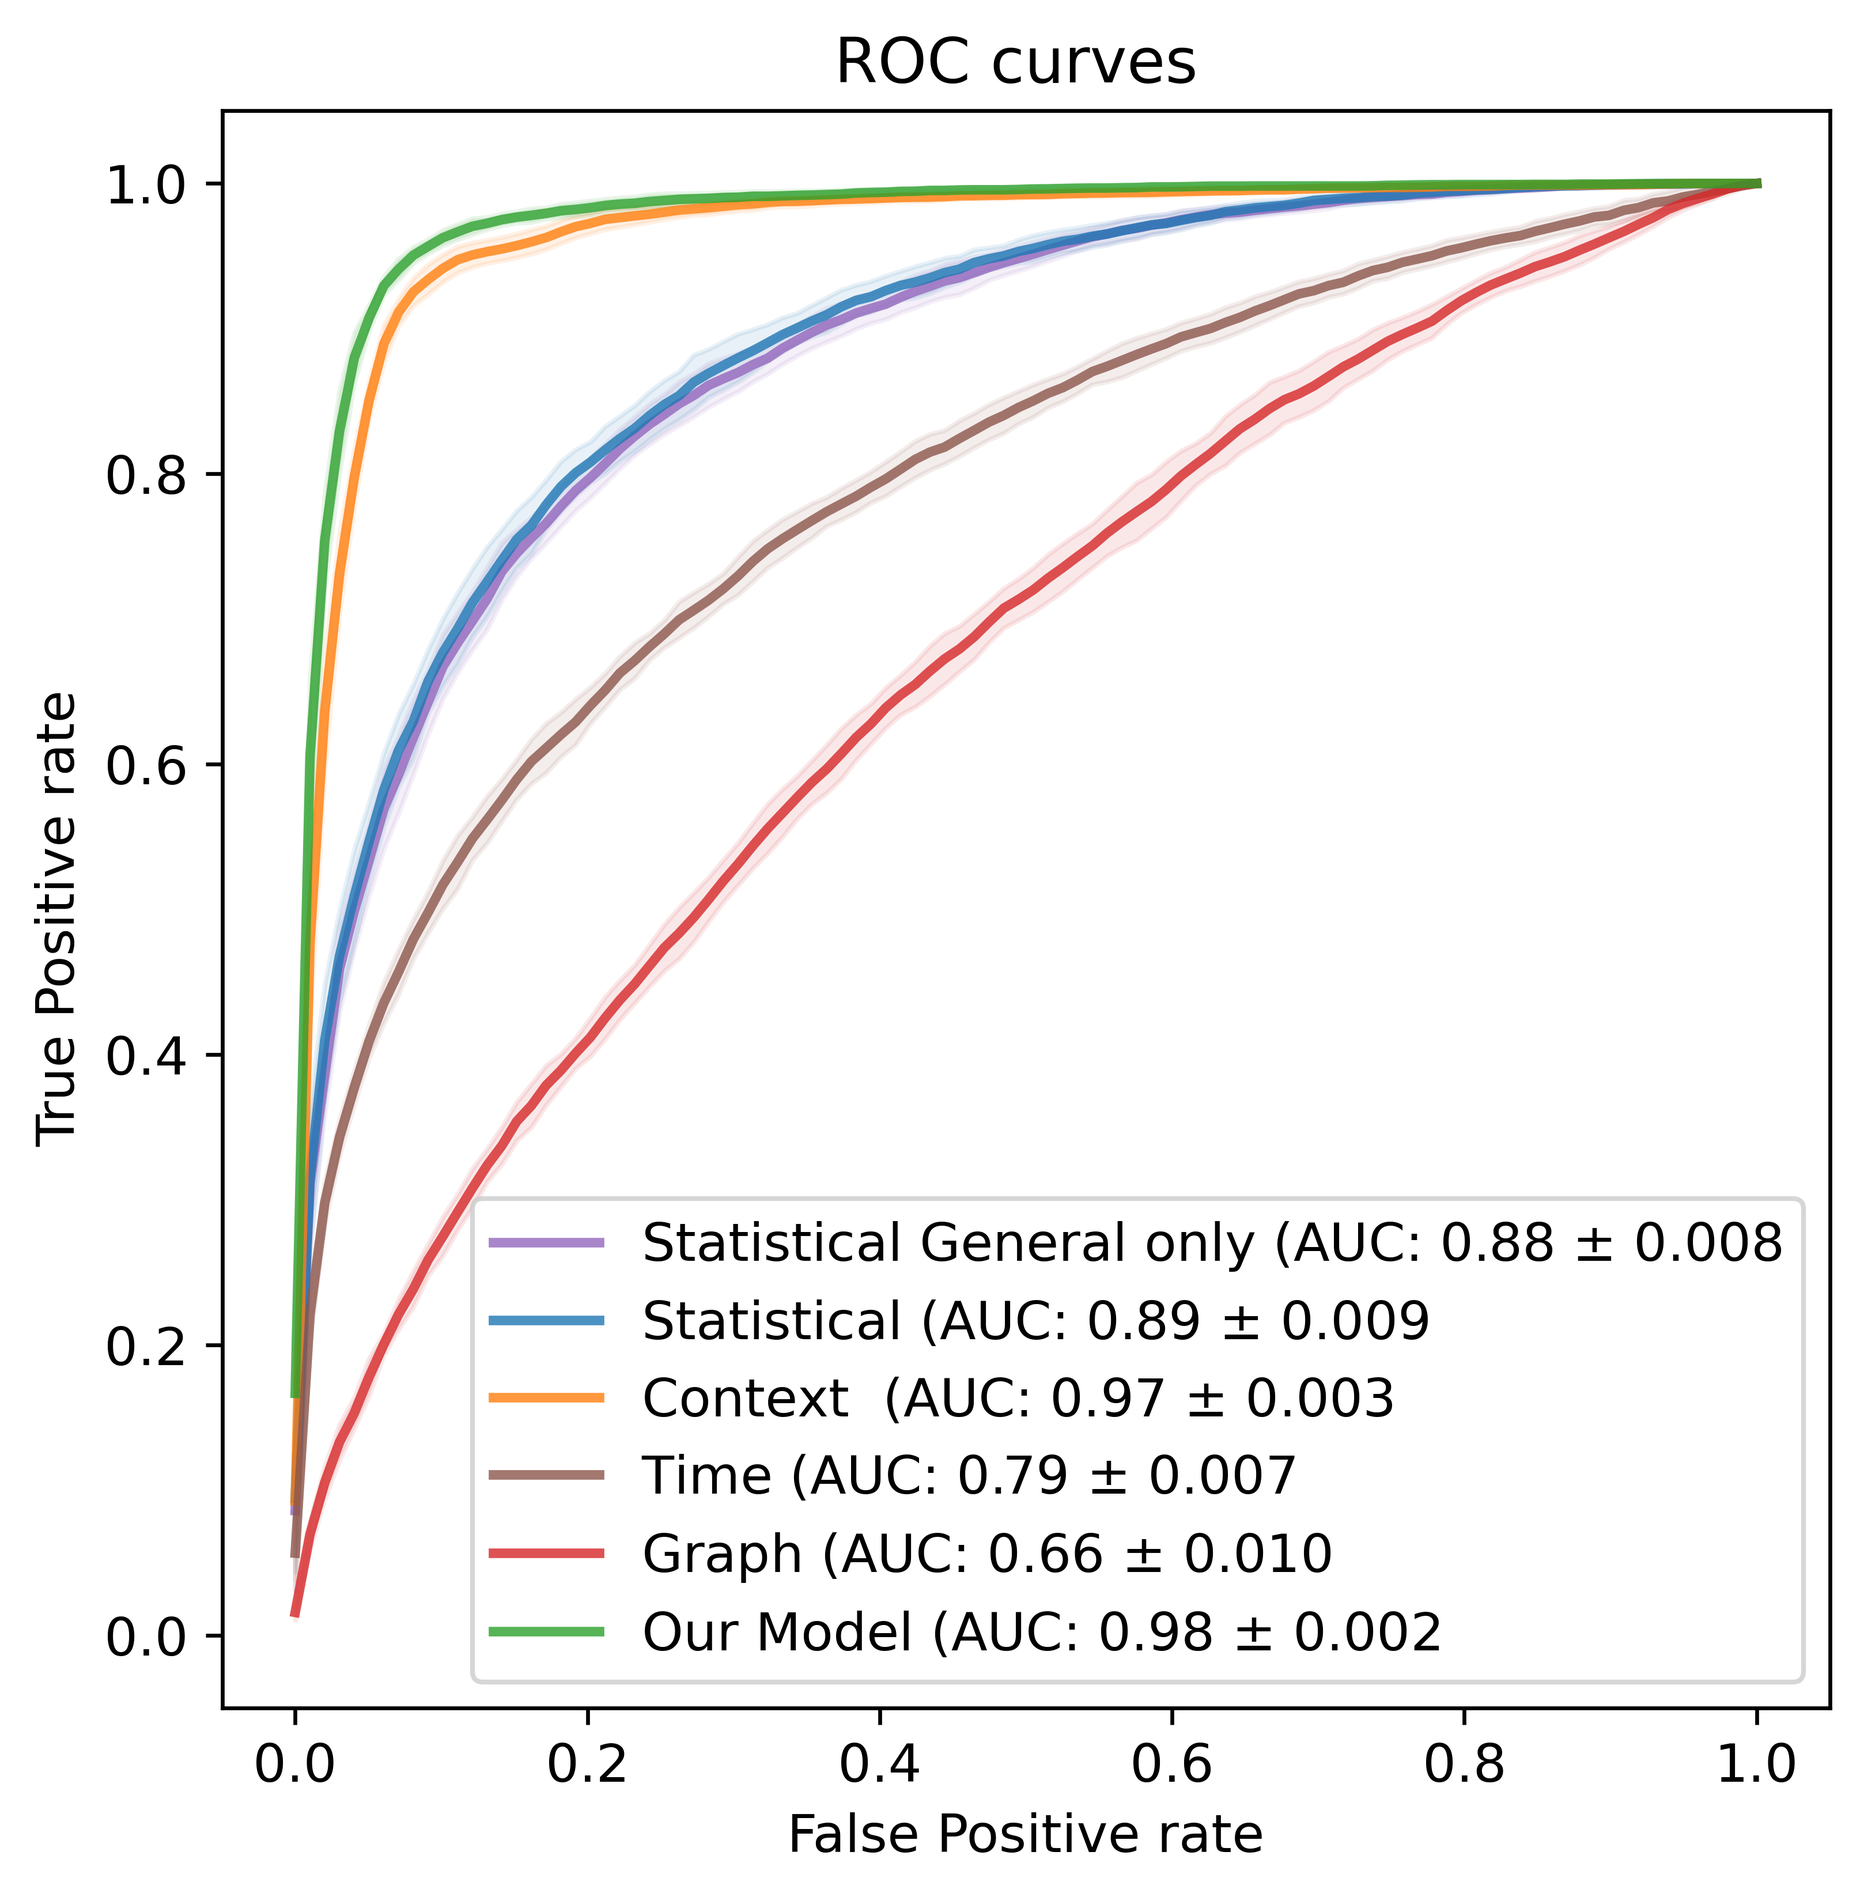
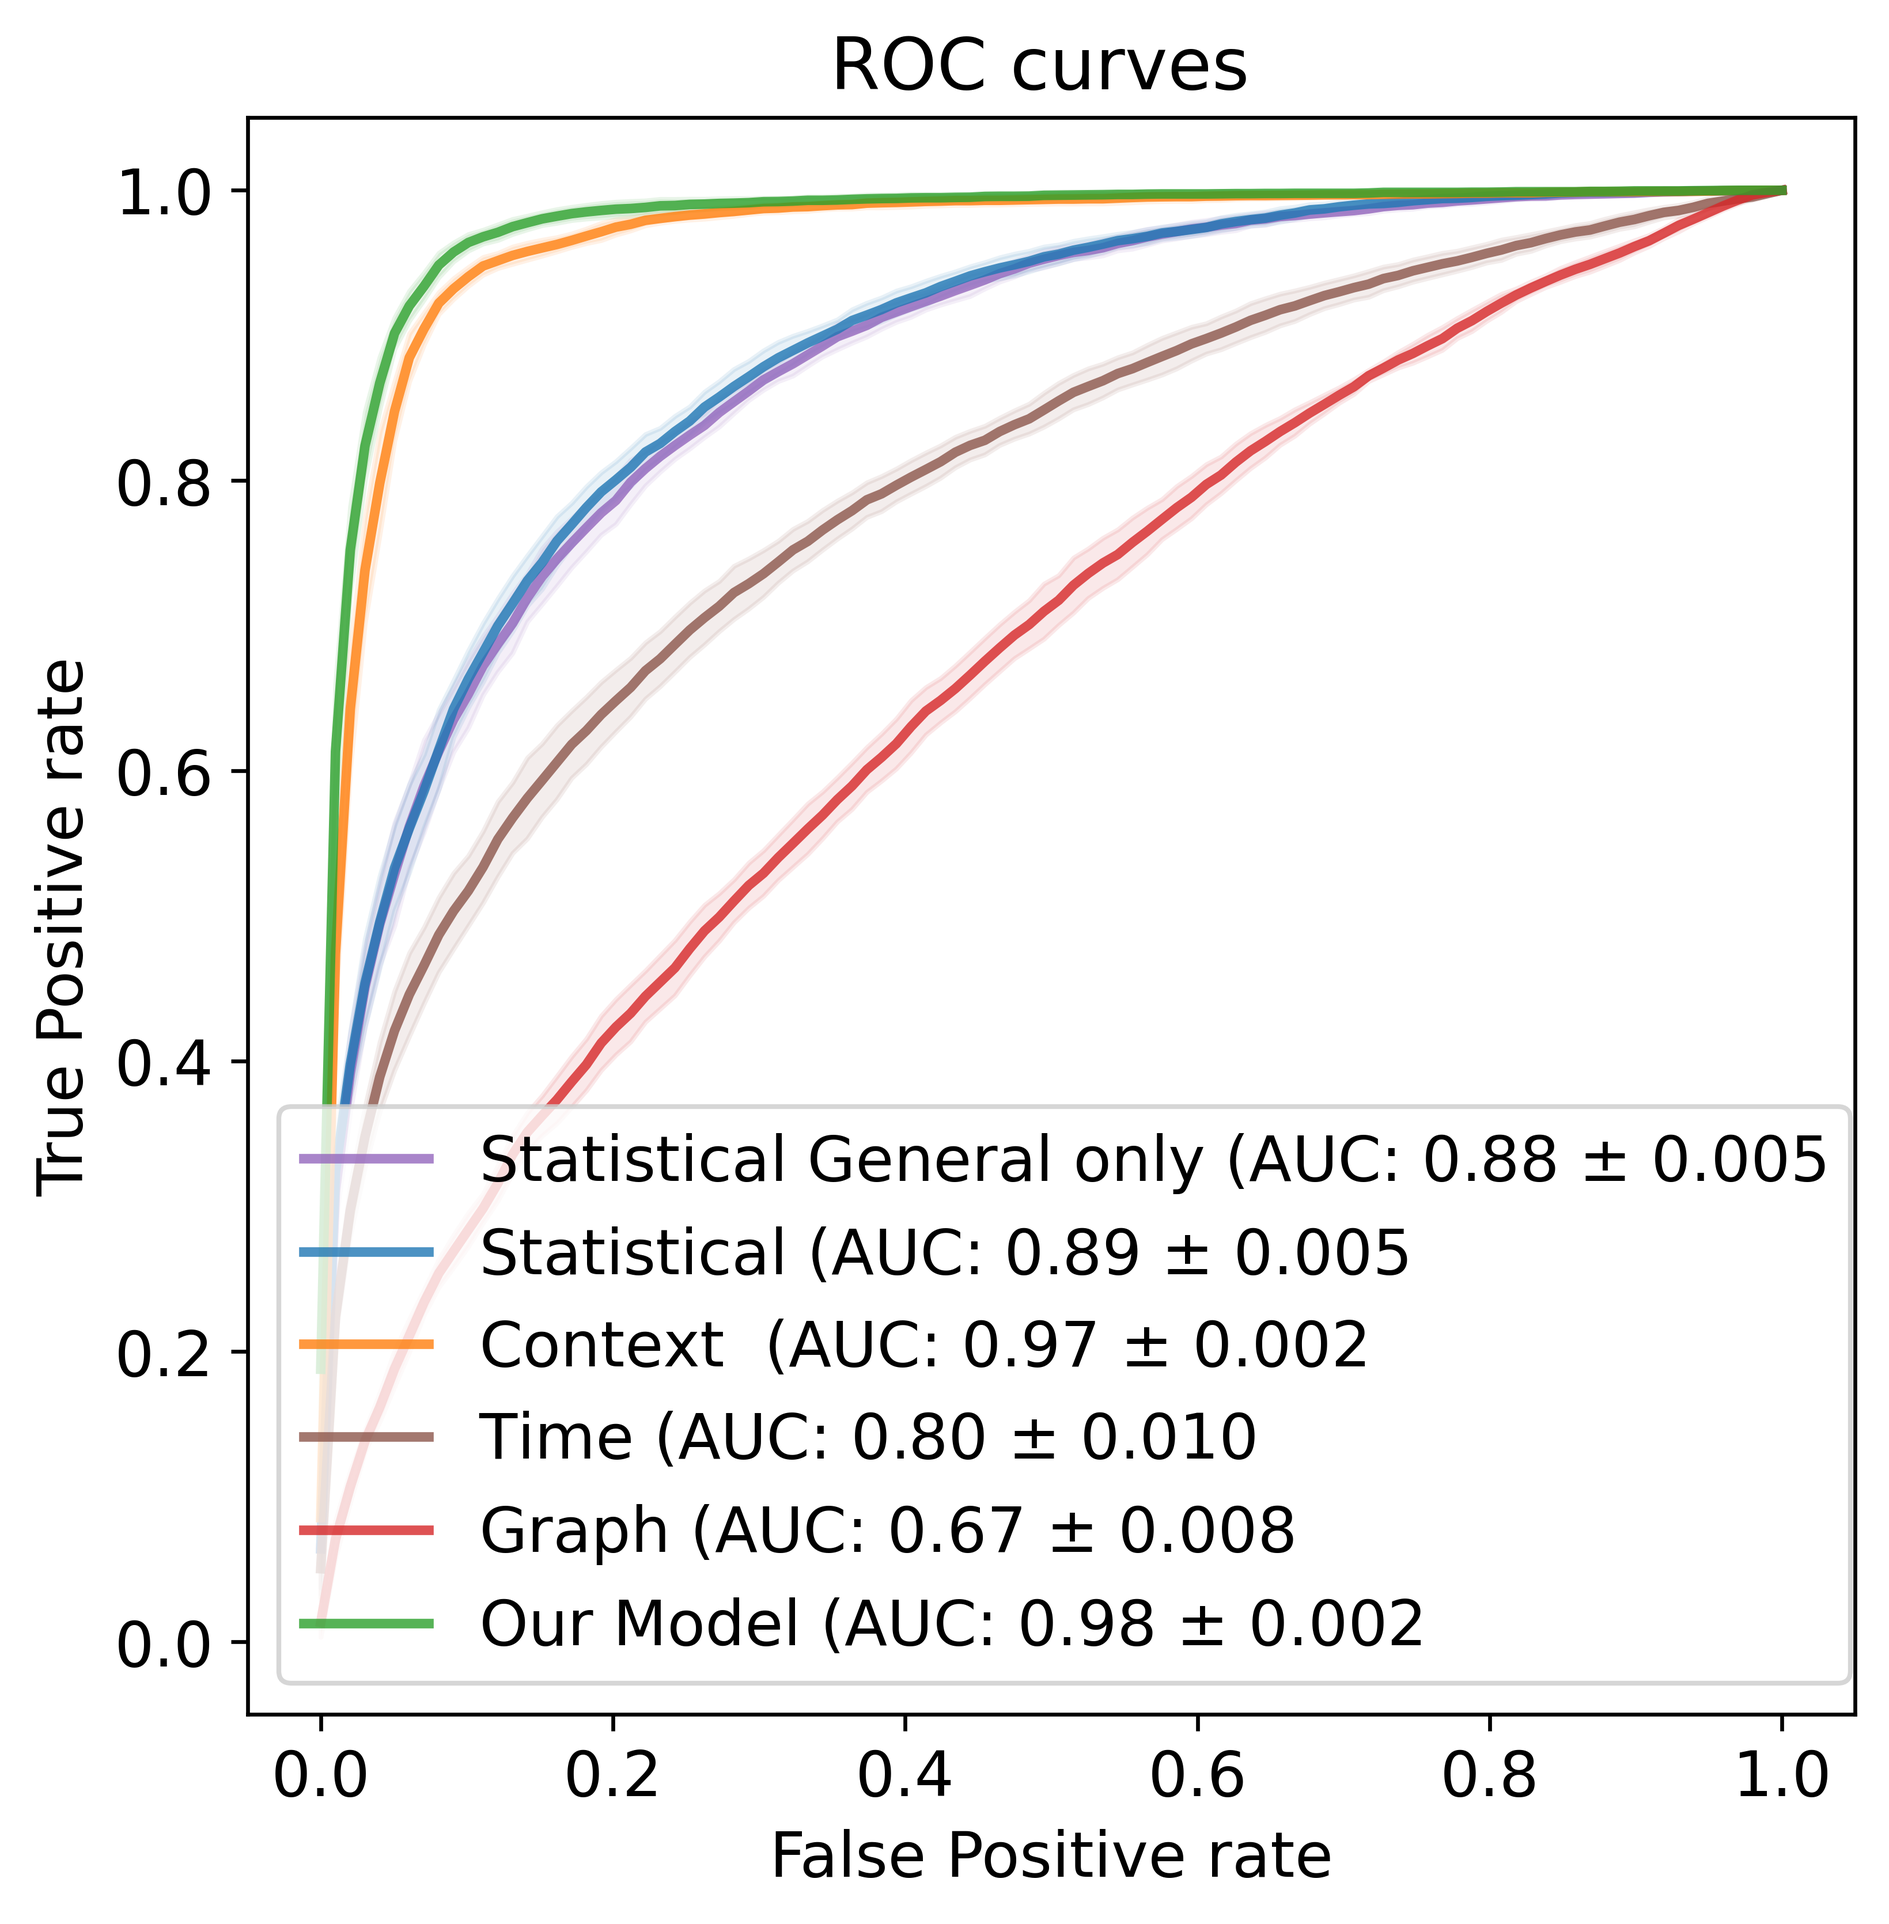
Update of last figures and performance measurment update of figure font size

diff --git a/code/performance_measurement.py b/code/performance_measurement.py
@@ -179,7 +179,7 @@ def measure():
 
 
 def roc_curves(data_res):
-    plt.rcParams.update({'font.size': 11})
+    plt.rcParams.update({'font.size': 13})
     fig = plt.figure(figsize=(6, 6), dpi=600)
     model_labels = ["Statistical General only", "Statistical", "Context ", "Time", "Graph", "Our Model"]
 
@@ -275,15 +275,15 @@ def roc_curves(data_res):
 
     plt.xlim([-0.05, 1.05])
     plt.ylim([-0.05, 1.05])
-    plt.xlabel('False Positive rate', fontsize=11)  # ('1-Specificity', fontsize=13)
-    plt.ylabel('True Positive rate ', fontsize=11)  # ('Sensitivity', fontsize=13)
-    plt.title('ROC curves ', fontsize=13)
+    plt.xlabel('False Positive rate', fontsize=13)  # ('1-Specificity', fontsize=13)
+    plt.ylabel('True Positive rate ', fontsize=13)  # ('Sensitivity', fontsize=13)
+    plt.title('ROC curves ', fontsize=15)
     plt.legend(loc='best')
 
     plt.savefig("../plots/roc_mean.png", bbox_inches='tight', dpi=600, facecolor='w')
 
 def pr_curves(data_res):
-    plt.rcParams.update({'font.size': 11})
+    plt.rcParams.update({'font.size': 13})
     fig = plt.figure(figsize=(6, 6), dpi=600)
     model_labels = ["Statistical General only", "Statistical", "Context ", "Time", "Graph", "Our Model"]
 
@@ -384,14 +384,15 @@ def pr_curves(data_res):
 
     plt.xlim([-0.05, 1.05])
     plt.ylim([-0.05, 1.05])
-    plt.xlabel('Precision', fontsize=11)  # ('1-Specificity', fontsize=13)
-    plt.ylabel('Recall', fontsize=11)  # ('Sensitivity', fontsize=13)
-    plt.title('Precision vs Recall curves ', fontsize=13)
+    plt.xlabel('Precision', fontsize=13)  # ('1-Specificity', fontsize=13)
+    plt.ylabel('Recall', fontsize=13)  # ('Sensitivity', fontsize=13)
+    plt.title('Precision vs Recall curves ', fontsize=15)
     plt.legend(loc='best')
 
     plt.savefig("../plots/prec_recal_mean.png", bbox_inches='tight', dpi=600, facecolor='w')
 
 def shap_values():
+    #plt.rcParams.update({'font.size': 13})
     filename = "../data/us_2020_election_data.csv"
     model_params = parse_model_params("xgboost")
 
@@ -422,6 +423,7 @@ def shap_values():
     shap_values_xgb = shap.TreeExplainer(XGB_model).shap_values(X_test)
 
     fig = plt.figure()
+    #plt.rcParams.update({'font.size': 13})
     shap.summary_plot(shap_values_xgb[1], X_test)
     fig.savefig("../plots/shap.png", bbox_inches='tight', dpi=600, facecolor='w')
 
